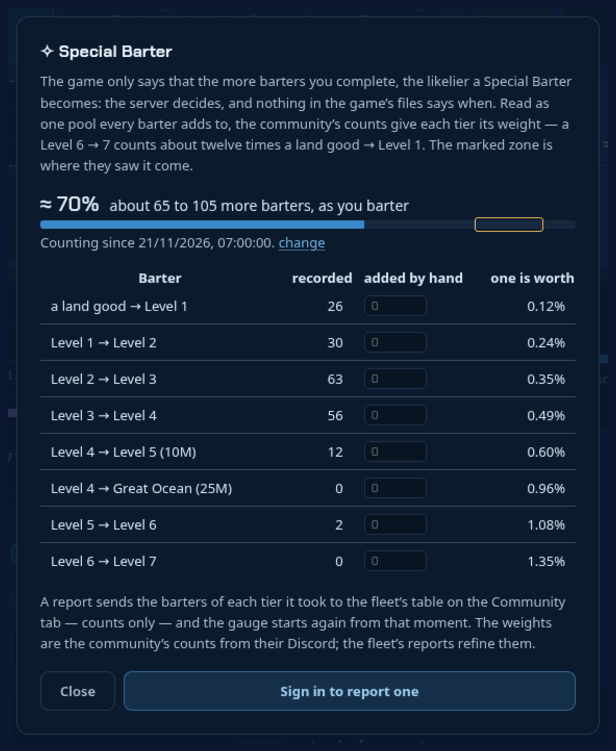
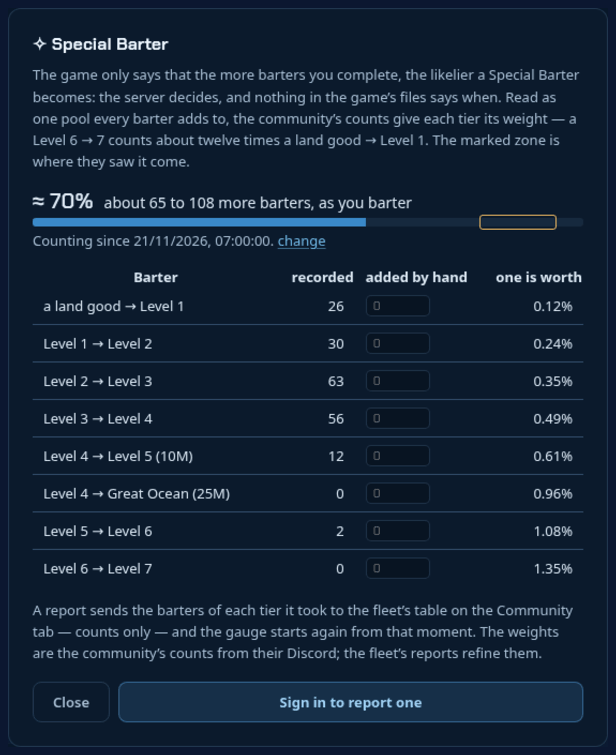
The Special Barter weights take RENGEREL's fifth [Level 4] -> [Level 5] reading (155) from the raw sheet: that column averages 163.6, one is worth 0.61%, the zone runs 93% to 109%; the three What's New pictures shot again

diff --git a/js/special-barter.js b/js/special-barter.js
@@ -28,7 +28,7 @@ export const COMMUNITY = {
 	1: [426, 420, 415, 413, 406],
 	2: [286, 286, 282, 280, 280],
 	3: [208, 207, 205, 198, 193],
-	4: [179, 166, 160, 158],
+	4: [179, 166, 160, 158, 155],
 	'4g': [105, 103, 103],
 	5: [93, 93],
 	6: [74, 74],
